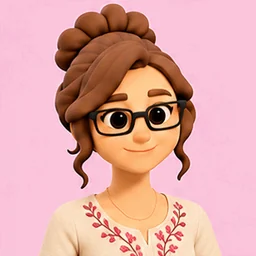
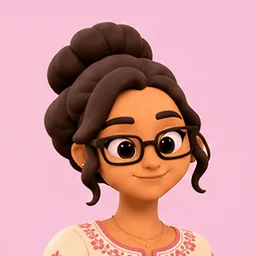
Kiru colour redo: out3 idle/wave/laugh in kiru-v2 colours
Claude-Session: https://claude.ai/code/session_01M9MLSzTgGmRpDx4quWz9qx

diff --git a/design/gen/status.md b/design/gen/status.md
@@ -143,9 +143,9 @@ Generated in ChatGPT, checked frame by frame, converted to 256x256 animated WebP
 | kiru/out2/idle | done | 1 | colour redo Nov 19 (sprite sheet, kiru-v2 colours): white top (olive trousers below the frame); blink frames 3-7; stable framing |
 | kiru/out2/wave | done | 1 | colour redo Nov 19 (sprite sheet, kiru-v2 colours): same hand waves on the left; small white motion lines in frames 4-7; blink frames 9-10 |
 | kiru/out2/walk | done | 1 | colour redo Nov 19 (sprite sheet, kiru-v2 colours): walking bob and sway (up to 11 px, sheet as drawn); ONE bag strap on the same shoulder in every frame; two blinks |
-| kiru/out3/idle | done | 0 | Kiru v2 look |
-| kiru/out3/wave | done | 0 | Kiru v2 look |
-| kiru/out3/laugh | done | 0 | Kiru v2 look; head tilts back with the laugh (up to 12 px) |
+| kiru/out3/idle | done | 1 | colour redo Nov 19 (sprite sheet, kiru-v2 colours): cream kurti with pink embroidery; aligned to frame 0 (sheet drifted up to 6 px); slow blink frames 3-9 |
+| kiru/out3/wave | done | 1 | colour redo Nov 19 (sprite sheet, kiru-v2 colours): same hand waves on the left; small white motion lines frames 4-6; blink frames 9-10 |
+| kiru/out3/laugh | done | 1 | colour redo Nov 19 (sprite sheet, kiru-v2 colours): laugh with head tilt; frames aligned to frame 0 (sheet drifted up to 6 px); small white laugh lines in frames 4-6 |
 | kiru/out4/idle | done | 0 | Kiru v2 look; frames 5-8 rose up to 8 px during the blink; re-aligned and cropped |
 | kiru/out4/wave | done | 0 | Kiru v2 look |
 | kiru/out4/dance | done | 0 | Kiru v2 look; fists pop in at frame 1 and out at frame 15 |
@@ -207,9 +207,9 @@ Reference measurements (tools: /tmp/tools/colour.py; median Lab over sampled fra
 | kiru/out2/idle | done | 1.4 | 1.1 | white top (olive trousers below the frame); blink frames 3-7; stable framing |
 | kiru/out2/walk | done | 2.6 | 3.0 | walking bob and sway (up to 11 px, sheet as drawn); ONE bag strap on the same shoulder in every frame; two blinks |
 | kiru/out2/wave | done | 2.5 | 3.6 | same hand waves on the left; small white motion lines in frames 4-7; blink frames 9-10 |
-| kiru/out3/idle | pending |  |  | old: skin dE 14.9 hair dE 17.4 |
-| kiru/out3/laugh | pending |  |  | old: skin dE 15.1 hair dE 18.6 |
-| kiru/out3/wave | pending |  |  | old: skin dE 15.7 hair dE 18.1 |
+| kiru/out3/idle | done | 4.1 | 2.1 | cream kurti with pink embroidery; aligned to frame 0 (sheet drifted up to 6 px); slow blink frames 3-9 |
+| kiru/out3/laugh | done | 3.4 | 2.8 | laugh with head tilt; frames aligned to frame 0 (sheet drifted up to 6 px); small white laugh lines in frames 4-6 |
+| kiru/out3/wave | done | 1.8 | 3.0 | same hand waves on the left; small white motion lines frames 4-6; blink frames 9-10 |
 | kiru/out4/dance | pending |  |  | old: skin dE 15.0 hair dE 19.3 |
 | kiru/out4/idle | pending |  |  | old: skin dE 15.4 hair dE 18.5 |
 | kiru/out4/wave | pending |  |  | old: skin dE 14.9 hair dE 18.8 |
